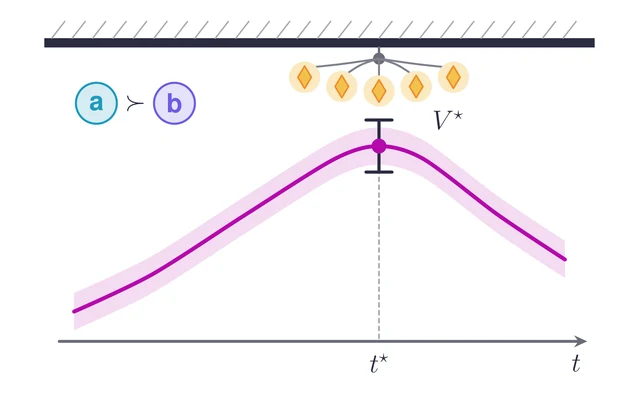
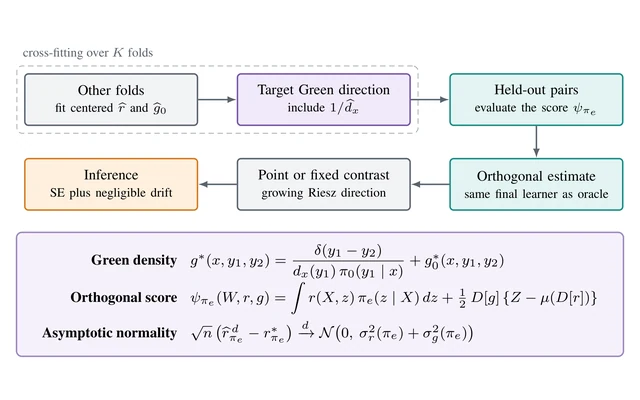
Redraw three thumbnails from the papers' own figures
- Continual pretraining: the draft's source-age / learning figure
- Inference on Ceilings: TikZ re-layout of the cross-fitting workflow with key equations
- ReflectAgents: decision schematic plus repair/damage and accuracy panels
- Remove the superseded TikZ stand-ins so a full rebuild can't overwrite them

diff --git a/images/publications/tikz/chandelier-debiasing.tex b/images/publications/tikz/chandelier-debiasing.tex
@@ -1,41 +1,63 @@
-% Inference on Ceilings: Chandelier Debiasing for Optimal Policy Value with Continuous Treatments under Preference Data
-% Inference on the peak ("ceiling") of a value curve over a continuous treatment, learned from pairwise preferences.
-\documentclass[tikz,border=0pt]{standalone}
-\input{thumbstyle}
+% Inference on Ceilings: Chandelier Debiasing for Optimal Policy Value with Continuous Treatments
+% under Preference Data.
+% Figure 1 (cross-fitting workflow) of the paper, re-laid out to fill a 16:10 thumbnail, with the
+% paper's key displays underneath: the Green-density decomposition (Theorem 3.2), the orthogonal
+% score (eq. score-pie) and the asymptotic normality of the debiased estimator (Theorem 3.5).
+% Adapted from the paper source (pref_optim_draft/junwei_lab_tex_template: figures/method.tex,
+% draft_main.tex). Labels and notation follow the paper.
+\documentclass[tikz,border=1pt]{standalone}
+\usepackage{times}
+\usepackage{amsmath,amssymb}
+\usetikzlibrary{arrows.meta,backgrounds,calc,positioning,fit}
+\definecolor{cdteal}{HTML}{178A83}
+\definecolor{cdtealfill}{HTML}{E2F5F2}
+\definecolor{cdorange}{HTML}{D47A1F}
+\definecolor{cdorangefill}{HTML}{FFF0DD}
+\definecolor{cdpurple}{HTML}{7556A5}
+\definecolor{cdpurplefill}{HTML}{F0E9FA}
+\definecolor{cdgray}{HTML}{59636E}
+\definecolor{cdgrayfill}{HTML}{F2F4F6}
 \begin{document}
-\begin{tikzpicture}
-\thumbcanvas
-% Ceiling.
-\fill[ink] (0.6,9.1) rectangle (15.4,9.35);
-\foreach \x in {0.8,1.35,...,15.1} \draw[ink!40, line width=1.1pt] (\x,9.35) -- ++(0.35,0.45);
-% Schematic value curve over the treatment with an uncertainty band (no data).
-\fill[accent!14]
-  plot[smooth] coordinates {(1.4,2.5) (3.5,3.5) (6.0,5.1) (8.4,6.6) (9.6,6.95) (10.8,6.6) (12.8,5.1) (14.6,3.9)}
-  -- plot[smooth] coordinates {(14.6,2.9) (12.8,4.1) (10.8,5.6) (9.6,5.95) (8.4,5.6) (6.0,4.1) (3.5,2.5) (1.4,1.5)}
-  -- cycle;
-\draw[accent, line width=3pt]
-  plot[smooth] coordinates {(1.4,2.0) (3.5,3.0) (6.0,4.6) (8.4,6.1) (9.6,6.45) (10.8,6.1) (12.8,4.6) (14.6,3.4)};
-\draw[arrow=ink!70] (1.0,1.2) -- (15.2,1.2);
-\draw[dashed, ink!40, line width=1.4pt] (9.6,6.45) -- (9.6,1.2);
-\node[text=ink] at (9.6,0.62) {\lbl{$t^\star$}};
-\node[text=ink] at (14.9,0.62) {\lbl{$t$}};
-% Inference on the optimal value: estimate with an interval.
-\draw[ink, line width=2.4pt] (9.6,5.75) -- (9.6,7.15);
-\draw[ink, line width=2.4pt] (9.25,5.75) -- (9.95,5.75) (9.25,7.15) -- (9.95,7.15);
-\fill[accent] (9.6,6.45) circle (0.2);
-\node[text=ink] at (11.45,7.15) {\lbl{$V^\star$}};
-% The chandelier hangs from the ceiling right above the optimum.
-\draw[ink!70, line width=1.8pt] (9.6,9.1) -- (9.6,8.85);
-\fill[ink!70] (9.6,8.8) circle (0.16);
-\foreach \dx/\dy in {-2.0/0.25,-1.0/0.5,0/0.62,1.0/0.5,2.0/0.25} {
-  \draw[ink!60, line width=1.5pt] (9.6,8.8) .. controls ({9.6+0.5*\dx},8.65) .. ({9.6+\dx},{8.8-\dy});
-  \fill[sun!35] ({9.6+\dx},{8.8-\dy-0.25}) circle (0.42);
-  \node[diamond, fill=sun, draw=orange, line width=1.2pt, inner sep=0pt, minimum width=0.38cm, minimum height=0.62cm]
-    at ({9.6+\dx},{8.8-\dy-0.25}) {};
-}
-% Preference data: pairwise comparisons.
-\node[circle, fill=teal!18, draw=teal, line width=1.6pt, minimum size=1.1cm, text=teal] (a) at (2.0,7.6) {\lbl{a}};
-\node[text=ink] at (3.05,7.6) {\lbl{$\succ$}};
-\node[circle, fill=violet!18, draw=violet, line width=1.6pt, minimum size=1.1cm, text=violet] (b) at (4.1,7.6) {\lbl{b}};
+\begin{tikzpicture}[
+  box/.style={draw=cdgray,fill=cdgrayfill,rounded corners=2pt,thick,align=center,
+    inner sep=3pt,font=\footnotesize,text width=3.15cm,minimum height=1.0cm},
+  sub/.style={font=\scriptsize},
+  flow/.style={-{Latex[length=1.8mm]},thick,draw=cdgray},
+  node distance=0.62cm and 0.75cm]
+% Row 1: nuisances on other folds -> target Green direction -> held-out score.
+\node[box] (train) {Other folds\\{\scriptsize fit centered $\widehat r$ and $\widehat g_0$}};
+\node[box,draw=cdpurple,fill=cdpurplefill,right=of train] (green) {Target Green direction\\{\scriptsize include $1/\widehat d_x$}};
+\node[box,draw=cdteal,fill=cdtealfill,right=of green] (score) {Held-out pairs\\{\scriptsize evaluate the score $\psi_{\pi_e}$}};
+% Row 2 (right to left): orthogonal estimate -> contrast -> inference.
+\node[box,draw=cdteal,fill=cdtealfill,below=of score] (fit) {Orthogonal estimate\\{\scriptsize same final learner as oracle}};
+\node[box,left=of fit] (point) {Point or fixed contrast\\{\scriptsize growing Riesz direction}};
+\node[box,draw=cdorange,fill=cdorangefill,left=of point] (interval) {Inference\\{\scriptsize SE plus negligible drift}};
+\draw[flow] (train) -- (green);
+\draw[flow] (green) -- (score);
+\draw[flow] (score) -- (fit);
+\draw[flow] (fit) -- (point);
+\draw[flow] (point) -- (interval);
+\begin{scope}[on background layer]
+  \node[draw=cdgray!60,densely dashed,rounded corners=3pt,inner sep=4pt,fit=(train)(green)] (cf) {};
+\end{scope}
+\node[sub,text=cdgray,anchor=south west] at (cf.north west) {cross-fitting over $K$ folds};
+% Key displays, centered under the workflow.
+\coordinate (mid) at ($(cf.west)!0.5!(score.east)$);
+\node[inner sep=5pt,anchor=north,font=\footnotesize]
+  (eqs) at ([yshift=-0.42cm]mid |- point.south) {%
+  \renewcommand{\arraystretch}{1.9}%
+  \begin{tabular}{@{}r@{\hspace{0.9em}}l@{}}
+  \textbf{Green density} &
+  $g^*(x,y_1,y_2)=\dfrac{\delta(y_1-y_2)}{d_x(y_1)\,\pi_0(y_1\mid x)}+g_0^*(x,y_1,y_2)$\\
+  \textbf{Orthogonal score} &
+  $\psi_{\pi_e}(W,r,g)=\displaystyle\int r(X,z)\,\pi_e(z\mid X)\,dz+\tfrac12\,D[g]\,\{Z-\mu(D[r])\}$\\
+  \textbf{Asymptotic normality} &
+  $\sqrt n\,\big(\widehat r^{\,d}_{\pi_e}-r^*_{\pi_e}\big)\xrightarrow{d}\mathcal N\big(0,\ \sigma_r^2(\pi_e)+\sigma_g^2(\pi_e)\big)$
+  \end{tabular}};
+% Equation panel spans the width of the workflow above.
+\begin{scope}[on background layer]
+  \draw[cdpurple!70,fill=cdpurplefill!60,rounded corners=3pt,thick]
+    (cf.west |- eqs.north) rectangle (score.east |- eqs.south);
+\end{scope}
 \end{tikzpicture}
 \end{document}
